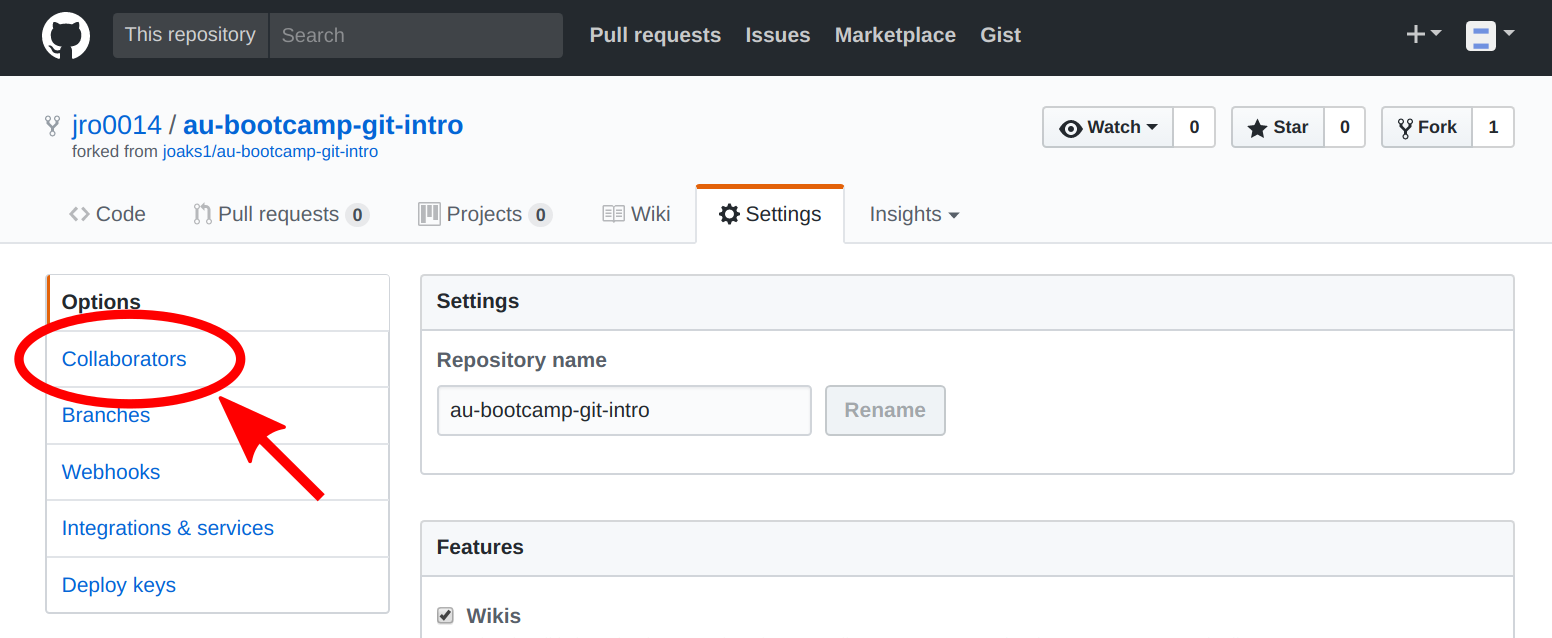
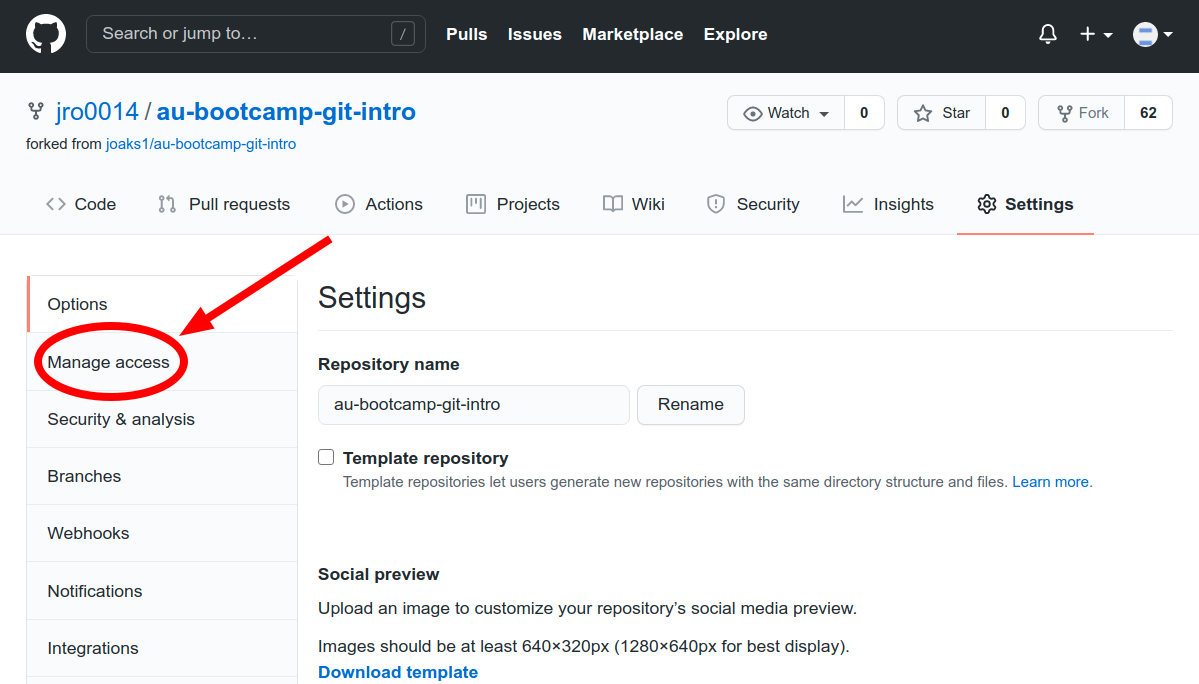
Updating set-up instructions.
Updating set-up instructions in README.md and associated PNG screenshots
to match the current GitHub interface.

diff --git a/README.md b/README.md
@@ -45,11 +45,15 @@ and (3) be working in a group with about 3 other people.
 
         ![Github settings tab](util/images/github-settings-tab.png)
 
-    2.  Click 'Collaborators' in the settings menu along the left.
+    2.  Click 'Manage access' in the settings menu along the left.
 
         ![Github collaborators tab](util/images/github-collaborator-tab.png)
 
-    3.  You should be able to find your team members' accounts by searching for
+    3.  Click the 'Invite a collaborator' button.
+
+        ![Github collaborators tab](util/images/github-collaborator-invite.png)
+
+    4.  You should be able to find your team members' accounts by searching for
         their Github **username**.
 
 1.  Each team member that is added will receive an invitation via e-mail to
@@ -62,9 +66,9 @@ and (3) be working in a group with about 3 other people.
 
     ![Double check that you are on the correct Github page](util/images/github-account-info.png)
 
-1.  Click the 'Clone or download' button, and copy the URL of the repo via the
-    'copy to clipboard' button. (**ALL** team members need to do this,
-    including the one who forked the repo)
+1.  Click the 'Code' button. From the dropdown, make sure 'HTTPS' is selected
+    and copy the URL of the repo via the 'copy to clipboard' button. (**ALL**
+    team members need to do this, including the one who forked the repo)
 
     ![Github copy URL](util/images/github-clipboard-button.png)
 
